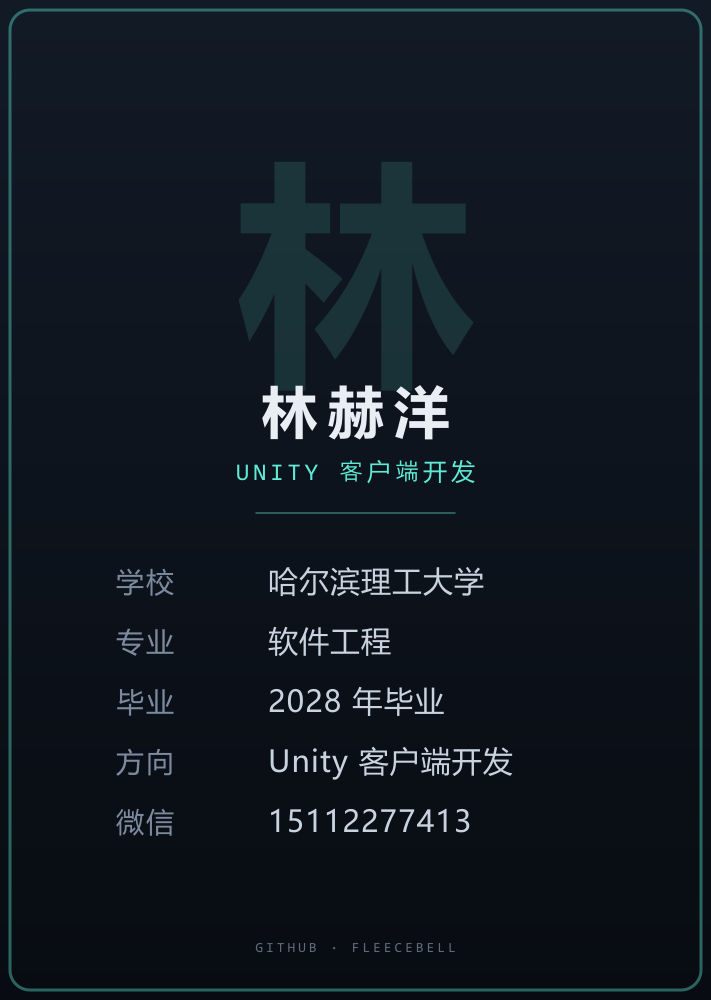
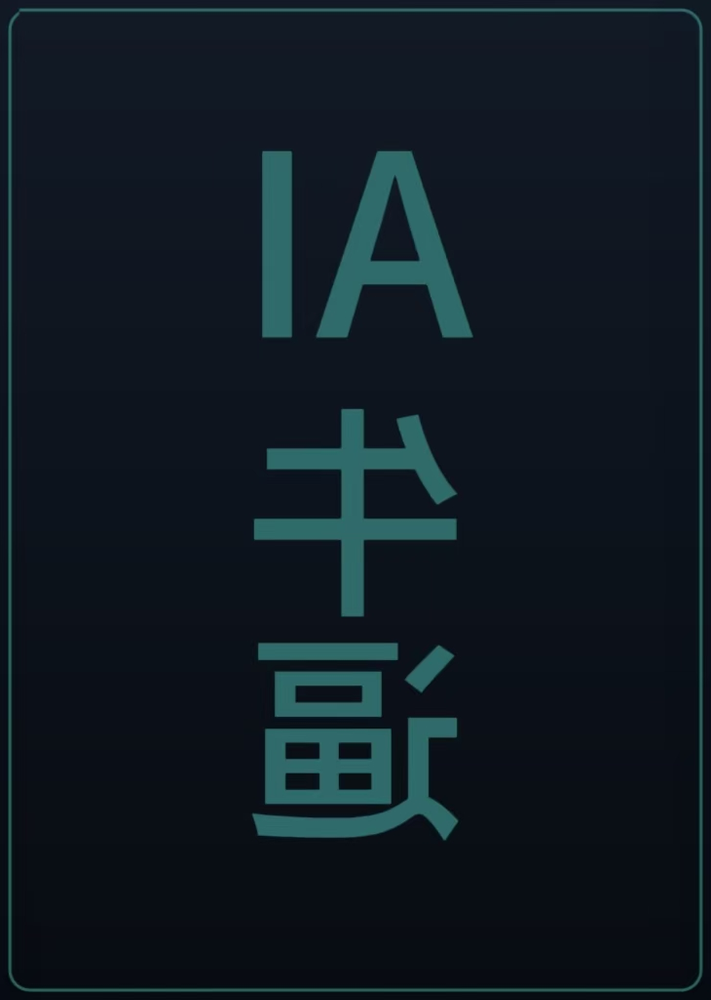
1

diff --git a/.workbuddy/memory/MEMORY.md b/.workbuddy/memory/MEMORY.md
@@ -19,6 +19,7 @@
 - 所有数据保留（用户后续删减），原页面未展示的 intro / skills / aiWorkflow / roadmap 都已渲染
 - 不要修改 `src/data.js` 内容，只改框架/样式
 - **Hero 右侧：3D Lanyard 挂牌**（自我介绍身份卡渲染为挂牌正面 PNG，`public/assets/lanyard/front.png`；背面 back.png）。组件 `src/components/Lanyard/Lanyard.jsx` 运行时构建模型（无外部 .glb 依赖），物理摆动 + 鼠标可拖拽
+- **⚠ 挂牌图片真正生效的位置是 `src/components/Lanyard/cards/`（front.png/back.png，`?inline` 内联导入），不是 `public/assets/lanyard/`**！`public/assets/lanyard/` 只是源文件存档，代码不读。换挂牌图 = 新图转 PNG + 覆盖 `src/components/Lanyard/cards/` 同名文件（尺寸需 711x1000 与正面一致，比例差异小可用 sharp resize fit:fill）→ dev HMR 自动生效 / 构建内联
 
 ## 已知陷阱
 - Vite 构建时若 `dist/` 被 preview server 占用，rmSync 被 shim 拦截会报错；构建前需停掉 preview

diff --git a/.workbuddy/memory/2026-08-03.md b/.workbuddy/memory/2026-08-03.md
@@ -62,3 +62,9 @@
 - 需求：删除 footer 里 `$ unity-client portfolio · react + vite` 标注
 - 实现：Footer.jsx 移除 `.f-mono` 的 span 元素（space-between 布局自动变为 2 端对齐：© 林赫洋 左 / Unity Client Portfolio 右）；.f-mono/.f-accent CSS 规则保留未删（无害，最小改动）
 - 修改：src/components/Footer.jsx；preview.html 已重建
+
+## 挂牌背面换图（用户放错目录）
+- 现象：用户把新图放 public/assets/lanyard/back.jpg，localhost 刷新无更新
+- 根因：代码用 `?inline` 导入 `src/components/Lanyard/cards/front.png/back.png`（构建时内联 data URI），**不读 public/assets/lanyard/**——public 目录只是源文件存档
+- 处理：sharp 把 back.jpg(730x1024) resize 711x1000 fit:fill → 覆盖 src/components/Lanyard/cards/back.png（比例差 0.2% 无感）；dev HMR 生效
+- 约定（已写入 MEMORY.md）：换挂牌图 = 新图转 PNG + 覆盖 src/components/Lanyard/cards/ 同名文件（711x1000）
